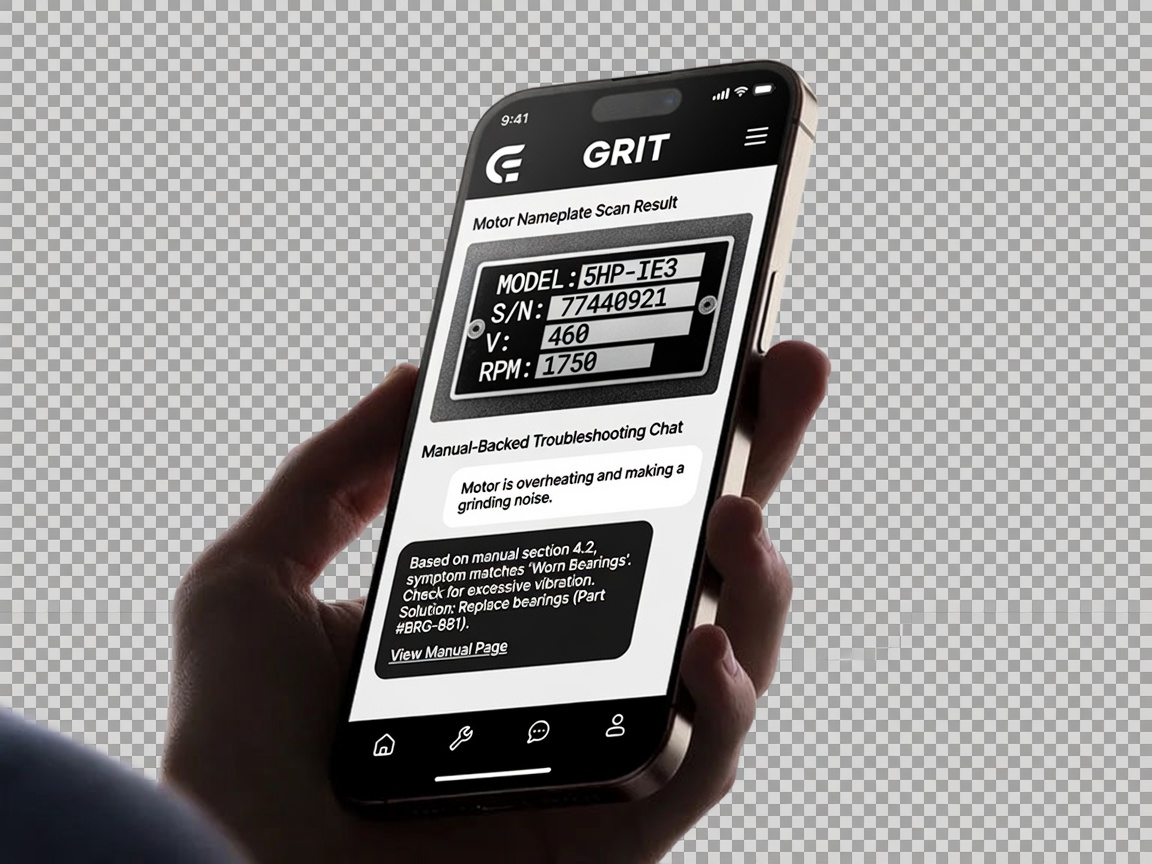
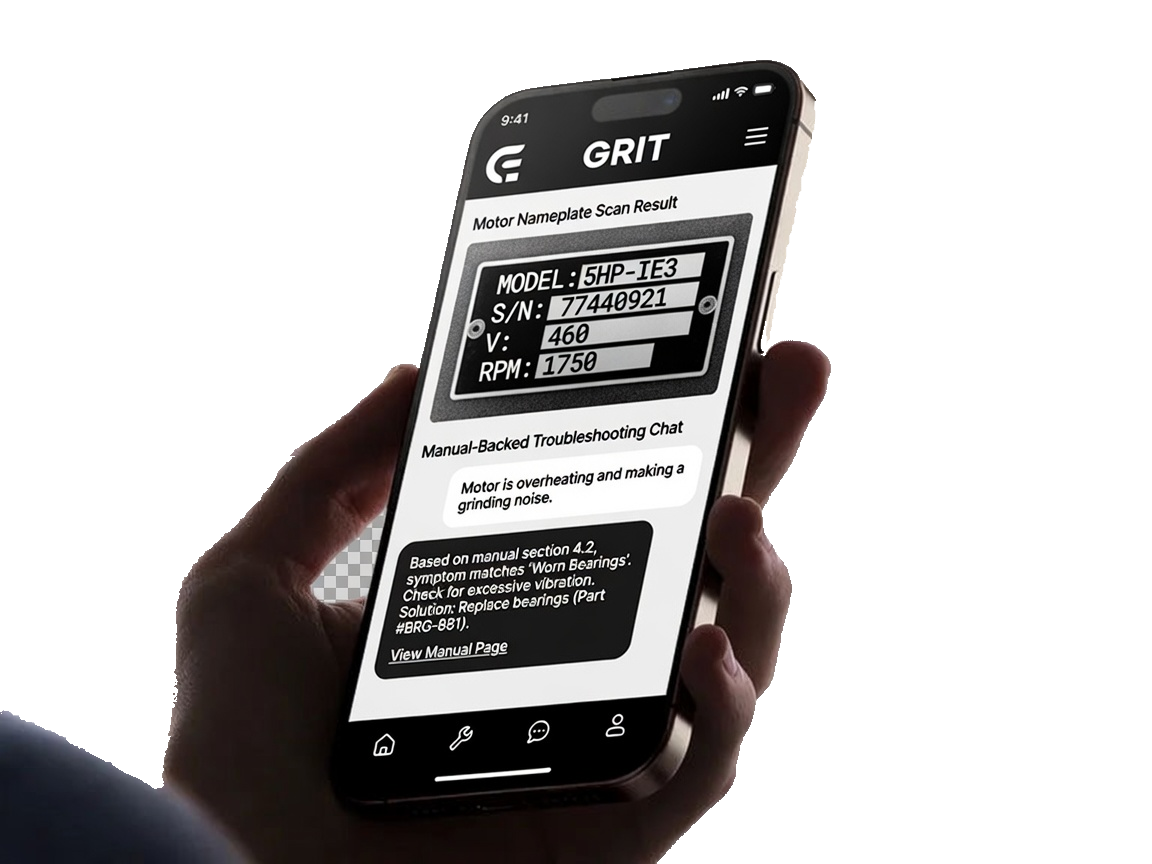
Fix phone mockup alpha: remove gray and black studio backdrops.
Flood-fill edge-connected studio backgrounds for true transparent PNGs
across all five GRIT phone variants.

diff --git a/scripts/make-phone-alpha.py b/scripts/make-phone-alpha.py
@@ -1,4 +1,4 @@
-"""Remove near-white studio background; save transparent PNGs."""
+"""Remove studio background (white/gray OR pure black); save transparent PNGs."""
 from __future__ import annotations
 
 import os
@@ -18,63 +18,165 @@ FILES = [
 ]
 
 
-def is_bg(r: int, g: int, b: int) -> bool:
-    if r > 235 and g > 235 and b > 235:
+def chroma(r: int, g: int, b: int) -> int:
+    return max(r, g, b) - min(r, g, b)
+
+
+def lum(r: int, g: int, b: int) -> float:
+    return 0.2126 * r + 0.7152 * g + 0.0722 * b
+
+
+def color_dist(a: tuple[int, int, int], b: tuple[int, int, int]) -> float:
+    return (
+        (a[0] - b[0]) ** 2 + (a[1] - b[1]) ** 2 + (a[2] - b[2]) ** 2
+    ) ** 0.5
+
+
+def sample_edge_mode(px, w: int, h: int) -> str:
+    """Detect dominant studio: dark or light."""
+    dark = 0
+    light = 0
+    for x in range(0, w, 8):
+        for y in (0, 1, 2, h - 1, h - 2):
+            r, g, b = px[x, y][:3]
+            L = lum(r, g, b)
+            if L < 25 and chroma(r, g, b) < 20:
+                dark += 1
+            if L > 120 and chroma(r, g, b) < 25:
+                light += 1
+    for y in range(0, h, 8):
+        for x in (0, 1, 2, w - 1, w - 2):
+            r, g, b = px[x, y][:3]
+            L = lum(r, g, b)
+            if L < 25 and chroma(r, g, b) < 20:
+                dark += 1
+            if L > 120 and chroma(r, g, b) < 25:
+                light += 1
+    return "dark" if dark >= light else "light"
+
+
+def is_bg_light(r: int, g: int, b: int) -> bool:
+    c = chroma(r, g, b)
+    L = lum(r, g, b)
+    if r > 230 and g > 230 and b > 230:
         return True
-    if r > 220 and g > 220 and b > 220 and abs(r - g) < 12 and abs(g - b) < 12:
+    if c <= 18 and L >= 115:
         return True
     return False
 
 
-def remove_bg_flood(img: Image.Image) -> Image.Image:
+def is_bg_dark(r: int, g: int, b: int) -> bool:
+    """Near-black studio - stop before hand/phone chrome."""
+    L = lum(r, g, b)
+    c = chroma(r, g, b)
+    # Pure black / very dark neutral
+    if L <= 18 and c <= 18:
+        return True
+    if L <= 28 and c <= 12:
+        return True
+    # Slight blue-black studio (but not blue UI chrome on screen - only low sat)
+    if L <= 32 and c <= 22 and abs(b - r) < 20:
+        return True
+    return False
+
+
+def remove_bg(img: Image.Image) -> Image.Image:
     img = img.convert("RGBA")
     w, h = img.size
     px = img.load()
+    mode = sample_edge_mode(px, w, h)
+    is_bg = is_bg_dark if mode == "dark" else is_bg_light
+    tol = 22 if mode == "dark" else 30
+
     visited = [[False] * h for _ in range(w)]
     q: deque[tuple[int, int]] = deque()
 
+    def try_seed(x: int, y: int) -> None:
+        if visited[x][y]:
+            return
+        r, g, b, _a = px[x, y]
+        if is_bg(r, g, b):
+            visited[x][y] = True
+            q.append((x, y))
+
     for x in range(w):
-        for y in (0, h - 1):
-            r, g, b, _a = px[x, y]
-            if is_bg(r, g, b):
-                q.append((x, y))
-                visited[x][y] = True
+        for y in range(min(6, h)):
+            try_seed(x, y)
+        for y in range(max(0, h - 6), h):
+            try_seed(x, y)
     for y in range(h):
-        for x in (0, w - 1):
-            if not visited[x][y]:
-                r, g, b, _a = px[x, y]
-                if is_bg(r, g, b):
-                    q.append((x, y))
-                    visited[x][y] = True
+        for x in range(min(6, w)):
+            try_seed(x, y)
+        for x in range(max(0, w - 6), w):
+            try_seed(x, y)
 
     while q:
         x, y = q.popleft()
         r, g, b, _a = px[x, y]
+        seed = (r, g, b)
         if is_bg(r, g, b):
             px[x, y] = (r, g, b, 0)
         for nx, ny in ((x + 1, y), (x - 1, y), (x, y + 1), (x, y - 1)):
-            if 0 <= nx < w and 0 <= ny < h and not visited[nx][ny]:
-                rr, gg, bb, _aa = px[nx, ny]
-                visited[nx][ny] = True
-                if is_bg(rr, gg, bb):
+            if not (0 <= nx < w and 0 <= ny < h) or visited[nx][ny]:
+                continue
+            rr, gg, bb, _aa = px[nx, ny]
+            if is_bg(rr, gg, bb) or (
+                color_dist(seed, (rr, gg, bb)) < tol and is_bg(rr, gg, bb)
+            ):
+                # slightly looser: similar to seed AND still bg-ish
+                if is_bg(rr, gg, bb) or (
+                    mode == "dark"
+                    and lum(rr, gg, bb) < 35
+                    and chroma(rr, gg, bb) < 18
+                    and color_dist(seed, (rr, gg, bb)) < tol + 8
+                ) or (
+                    mode == "light"
+                    and lum(rr, gg, bb) > 110
+                    and chroma(rr, gg, bb) < 22
+                    and color_dist(seed, (rr, gg, bb)) < tol + 10
+                ):
+                    visited[nx][ny] = True
                     q.append((nx, ny))
+                else:
+                    visited[nx][ny] = True
+            else:
+                visited[nx][ny] = True
 
-    # Feather fringe near transparent edges
+    # Second pass: any edge-adjacent pure black leftover
+    if mode == "dark":
+        for x in range(w):
+            for y in range(h):
+                r, g, b, a = px[x, y]
+                if a == 0:
+                    continue
+                if lum(r, g, b) <= 12 and chroma(r, g, b) <= 10:
+                    # only if neighbor transparent (fringe)
+                    for nx, ny in ((x + 1, y), (x - 1, y), (x, y + 1), (x, y - 1)):
+                        if 0 <= nx < w and 0 <= ny < h and px[nx, ny][3] == 0:
+                            px[x, y] = (r, g, b, 0)
+                            break
+
+    # Feather
     for x in range(w):
         for y in range(h):
             r, g, b, a = px[x, y]
             if a == 0:
                 continue
-            if r > 210 and g > 210 and b > 210 and abs(r - g) < 18 and abs(g - b) < 18:
-                near_t = False
-                for nx, ny in ((x + 1, y), (x - 1, y), (x, y + 1), (x, y - 1)):
-                    if 0 <= nx < w and 0 <= ny < h and px[nx, ny][3] == 0:
-                        near_t = True
-                        break
-                if near_t:
-                    whiteness = (r + g + b) / 3 / 255
-                    na = int(max(0, min(255, (1 - (whiteness - 0.82) / 0.18) * 255)))
-                    px[x, y] = (r, g, b, na)
+            near_t = False
+            for nx, ny in ((x + 1, y), (x - 1, y), (x, y + 1), (x, y - 1)):
+                if 0 <= nx < w and 0 <= ny < h and px[nx, ny][3] == 0:
+                    near_t = True
+                    break
+            if not near_t:
+                continue
+            if mode == "dark" and lum(r, g, b) < 40 and chroma(r, g, b) < 20:
+                na = int(max(0, min(255, lum(r, g, b) / 40 * 180)))
+                px[x, y] = (r, g, b, na)
+            if mode == "light" and lum(r, g, b) > 150 and chroma(r, g, b) < 20:
+                L = lum(r, g, b) / 255
+                na = int(max(0, min(255, (1 - (L - 0.55) / 0.45) * 200)))
+                px[x, y] = (r, g, b, na)
+
     return img
 
 
@@ -83,22 +185,28 @@ def main() -> None:
     for src_name, out_name in FILES:
         path = os.path.join(SRC_DIR, src_name)
         im = Image.open(path)
-        out = remove_bg_flood(im)
-        out_path = os.path.join(OUT_DIR, out_name)
-        out.save(out_path, "PNG")
+        out = remove_bg(im)
+        out.save(os.path.join(OUT_DIR, out_name), "PNG")
         im.convert("RGB").save(
             os.path.join(OUT_DIR, out_name.replace(".png", "-source.jpg")),
             quality=92,
         )
-        print("saved", out_name, out.size)
+        sample = out.load()
+        t = 0
+        ww, hh = out.size
+        for x in range(0, ww, 5):
+            for y in range(0, hh, 5):
+                if sample[x, y][3] < 12:
+                    t += 1
+        print("saved", out_name, out.size, "transparent_samples", t)
 
     readme = """# GRIT phone mockups
 
 Converted from `phonetemplate.webp` (hand + iPhone product shot).
 
 - Brand: GRIT black-and-white industrial field UI
-- Background: transparent PNG (studio white removed via flood fill)
-- Source JPGs kept as `-source.jpg` for reference
+- Background: **transparent PNG** (studio backdrop removed)
+- Source JPGs kept as `-source.jpg`
 
 | File | Concept |
 |------|---------|
@@ -108,7 +216,7 @@ Converted from `phonetemplate.webp` (hand + iPhone product shot).
 | grit-phone-04-manual-light.png | Light mode motor + manual steps |
 | grit-phone-05-equipment-id.png | Equipment identified + confidence |
 
-Use on marketing site over the dark grid; transparent edges composite cleanly.
+Re-run: `py -3 scripts/make-phone-alpha.py`
 """
     with open(os.path.join(OUT_DIR, "README.md"), "w", encoding="utf-8") as f:
         f.write(readme)

diff --git a/brand-pictures/phone-mockups/README.md b/brand-pictures/phone-mockups/README.md
@@ -3,8 +3,8 @@
 Converted from `phonetemplate.webp` (hand + iPhone product shot).
 
 - Brand: GRIT black-and-white industrial field UI
-- Background: transparent PNG (studio white removed via flood fill)
-- Source JPGs kept as `-source.jpg` for reference
+- Background: **transparent PNG** (studio backdrop removed)
+- Source JPGs kept as `-source.jpg`
 
 | File | Concept |
 |------|---------|
@@ -14,4 +14,4 @@ Converted from `phonetemplate.webp` (hand + iPhone product shot).
 | grit-phone-04-manual-light.png | Light mode motor + manual steps |
 | grit-phone-05-equipment-id.png | Equipment identified + confidence |
 
-Use on marketing site over the dark grid; transparent edges composite cleanly.
+Re-run: `py -3 scripts/make-phone-alpha.py`
